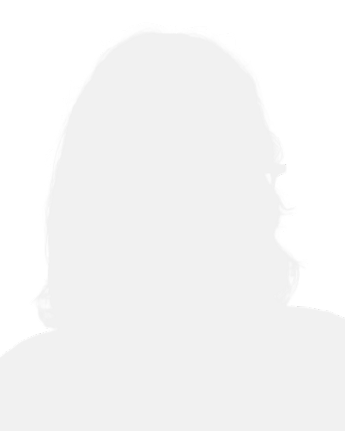
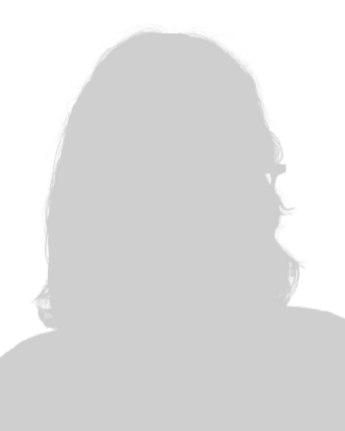
fix: remove photo card image transparency and replace image

diff --git a/src/components/about-me/PhotoCard.jsx b/src/components/about-me/PhotoCard.jsx
@@ -15,7 +15,7 @@ function PhotoCard() {
         <img
           src="/imgs/pfp-back.png"
           alt="Outline"
-          className="border border-white/10 opacity-70 blur-xs"
+          className="border border-white/10 blur-xs"
         />
         <img
           src="/imgs/sticker.png"
